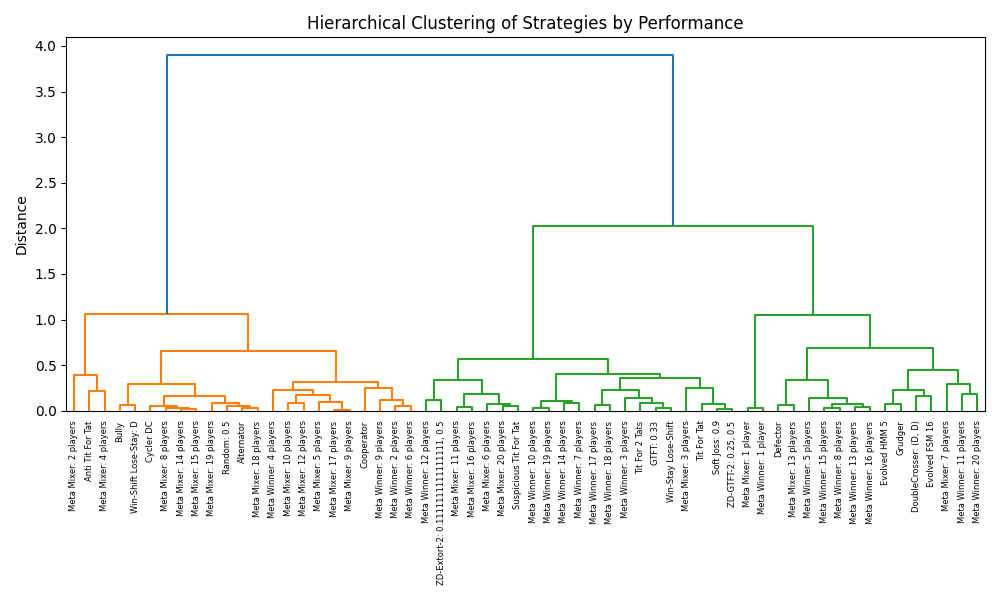
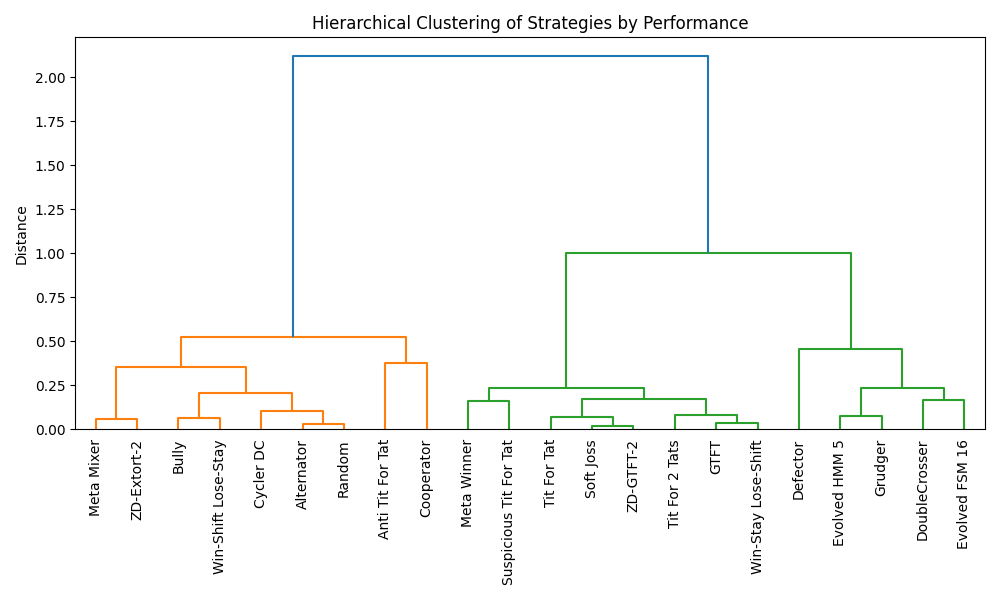
fix: update strategy clustering to use BaseName for performance matrix

diff --git a/visualize_results.py b/visualize_results.py
@@ -175,9 +175,9 @@ if dfs:
         print('Pairwise matchup matrix skipped: required columns (Name, Opponent, Median_score) not found.')
 
     # --- Advanced: Clustering of Strategies (Hierarchical) ---
-    if 'Name' in all_data.columns and 'Median_score' in all_data.columns and 'tournament_type' in all_data.columns:
-        # Create a matrix: rows=strategies, columns=tournament types, values=mean median score
-        perf_matrix = all_data.pivot_table(index='Name', columns='tournament_type', values='Median_score', aggfunc='mean').fillna(0)
+    if 'BaseName' in all_data.columns and 'Median_score' in all_data.columns and 'tournament_type' in all_data.columns:
+        # Create a matrix: rows=base strategies, columns=tournament types, values=mean median score
+        perf_matrix = all_data.pivot_table(index='BaseName', columns='tournament_type', values='Median_score', aggfunc='mean').fillna(0)
         from scipy.cluster.hierarchy import linkage, dendrogram
         import numpy as np
         plt.figure(figsize=(10, 6))
